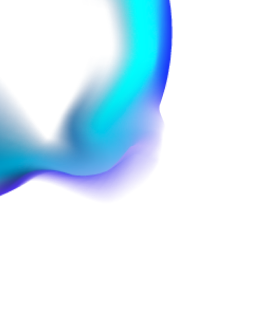
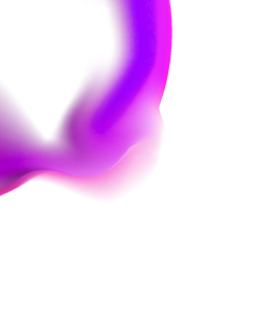
Add gówniak

Changed region(s): [[0.0, 0.0, 0.64, 0.6266]]

diff --git a/src/styles/Constants.scss b/src/styles/Constants.scss
@@ -31,8 +31,8 @@ $primary-purple-gradient-end-dark: hsl(247, 45%, 20%);
 $primary-purple-gradient-start: hsl(277, 67%, 30%);
 $primary-purple-gradient-end: hsl(247, 45%, 30%);
 
-$primary-purple-gradient-start-bright: hsl(277, 67%, 40%);
-$primary-purple-gradient-end-bright: hsl(247, 45%, 40%);
+$primary-purple-gradient-start-bright: #7622aa;
+$primary-purple-gradient-end-bright: #433894;
 
 $primary-gradient: linear-gradient(
   to right,
@@ -208,18 +208,18 @@ button {
   background-repeat: no-repeat;
 }
 
-// :root::after {
-//   content: '';
-//   display: block;
-//   position: absolute;
-//   overflow: hidden;
-//   z-index: -1;
-//   top: 0;
-//   width: 100%;
-//   height: 100%;
-//   background: url('/public/background/newfluid.png');
-//   background-repeat: no-repeat;
-// }
+:root::after {
+  content: '';
+  display: block;
+  position: absolute;
+  overflow: hidden;
+  z-index: -1;
+  top: 0;
+  width: 100%;
+  height: 100%;
+  background: url('/public/background/newfluid.png');
+  background-repeat: no-repeat;
+}
 
 body::-webkit-scrollbar {
   width: 1rem;
